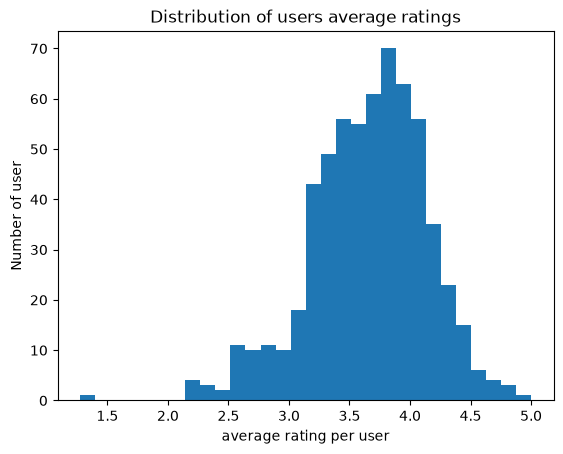
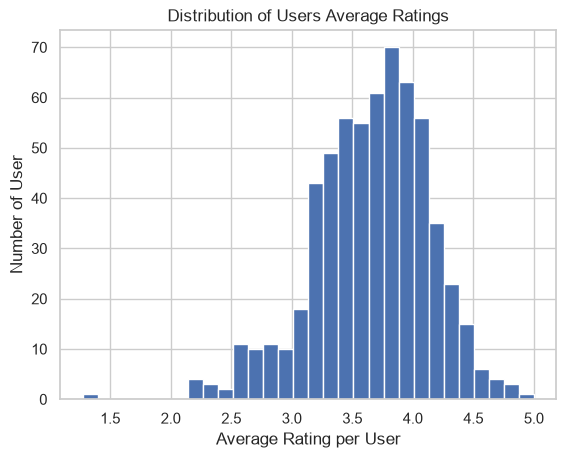
added metric for recommendation quality

diff --git a/tests/test_metrics.py b/tests/test_metrics.py
@@ -1,0 +1,54 @@
+import pytest
+
+from movie_recommender.evaluation.metrics import (
+    hit_rate_k,
+    ndcg_k,
+)
+
+
+def test_hit_rate_when_relevant_movie_is_present() -> None:
+    assert hit_rate_k(
+        recommendations=[10, 20, 30],
+        relevant_movies={20},
+        k=3,
+    ) == 1.0
+
+
+def test_hit_rate_when_relevant_movie_is_missing() -> None:
+    assert hit_rate_k(
+        recommendations=[10, 20, 30],
+        relevant_movies={40},
+        k=3,
+    ) == 0.0
+
+
+def test_hit_rate_respects_k() -> None:
+    assert hit_rate_k(
+        recommendations=[10, 20, 30],
+        relevant_movies={30},
+        k=2,
+    ) == 0.0
+
+
+def test_ndcg_is_one_at_first_position() -> None:
+    assert ndcg_k(
+        recommendations=[20, 10, 30],
+        relevant_movies={20},
+        k=3,
+    ) == pytest.approx(1.0)
+
+
+def test_ndcg_at_third_position() -> None:
+    assert ndcg_k(
+        recommendations=[10, 30, 20],
+        relevant_movies={20},
+        k=3,
+    ) == pytest.approx(0.5)
+
+
+def test_ndcg_is_zero_when_movie_is_missing() -> None:
+    assert ndcg_k(
+        recommendations=[10, 20, 30],
+        relevant_movies={40},
+        k=3,
+    ) == pytest.approx(0.0)

diff --git a/src/movie_recommender/evaluation/metrics.py b/src/movie_recommender/evaluation/metrics.py
@@ -1,0 +1,41 @@
+import math
+
+
+def hit_rate_k(
+        recommendations: list[int], 
+        relevant_movies: set[int],
+        k: int,
+          ) -> float:
+    """ 
+    from recommended movieId for the user, 
+    check matching between top k recommendded movie and relevant movie
+    """
+    top_k = set(recommendations[:k])
+
+    return float(bool(top_k & relevant_movies))
+
+def ndcg_k(
+        recommendations: list[int],
+        relevant_movies: set[int],
+        k: int
+        )->float:
+    """
+    Ranking quality metric. Compares rankings to an ideal order
+      where all relevant items are at the top of the list.
+      cumulative gain is hit count of recommendations.
+      DCG@K=sum over rank k movies {hit count/log_2(rank + 1)}
+      IDGC@K= DCG with ideal recommendation order. every relevent movie place at the top
+      DCG@K/IDCG@K
+    """
+    dcg = 0
+    for i in range(k):
+        if recommendations[i] in relevant_movies:
+            dcg += (1/math.log2(i+2))
+
+    ideal_relevant_count = min(len(relevant_movies), k)
+    idcg = sum((1/math.log2(i+2)) for i in range(ideal_relevant_count))
+
+    if idcg == 0:
+        return 0
+    else:
+        return dcg/idcg
